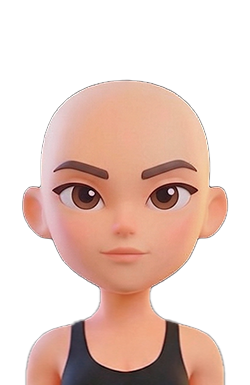
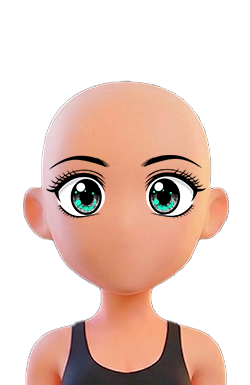
ajustes

diff --git a/assets/Components/AvatarPreview/AvatarPreview.js b/assets/Components/AvatarPreview/AvatarPreview.js
@@ -12,14 +12,15 @@ class AvatarPreview extends HTMLElement {
         this.imgBase = null;
         this.imgCabelo = null;
         this.imgOlhos = null; 
+        this.imgBoca = null; // Adicionado: Referência para a camada de boca
     }
 
     static get observedAttributes() {
-        return ['genero', 'cabelo', 'olhos']; 
+        return ['genero', 'cabelo', 'olhos', 'boca']; // Adicionado: 'boca'
     }
 
     attributeChangedCallback(name, oldValue, newValue) {
-        if (!this.imgBase || !this.imgCabelo || !this.imgOlhos) return;
+        if (!this.imgBase || !this.imgCabelo || !this.imgOlhos || !this.imgBoca) return;
         
         if (name === 'genero') {
             this.atualizarGenero(newValue);
@@ -27,6 +28,8 @@ class AvatarPreview extends HTMLElement {
             this.atualizarCabelo(newValue);
         } else if (name === 'olhos') {
             this.atualizarOlhos(newValue); 
+        } else if (name === 'boca') {
+            this.atualizarBoca(newValue); // Adicionado: Chamada para atualizar boca
         }
     }
 
@@ -41,7 +44,7 @@ class AvatarPreview extends HTMLElement {
             <link rel="stylesheet" href="${CSS_URL}">
             <div class="avatar-container">
                 <img class="base" alt="Corpo Base">
-                <img class="layer olhos" alt="Olhos"> 
+                <img class="layer boca" alt="Boca"> <img class="layer olhos" alt="Olhos"> 
                 <img class="layer cabelo" alt="Cabelo">
             </div>
         `;
@@ -49,6 +52,7 @@ class AvatarPreview extends HTMLElement {
         this.imgBase = this.shadowRoot.querySelector('.base');
         this.imgCabelo = this.shadowRoot.querySelector('.cabelo');
         this.imgOlhos = this.shadowRoot.querySelector('.olhos'); 
+        this.imgBoca = this.shadowRoot.querySelector('.boca'); // Cache da nova camada
 
         this.atualizarGenero(this.getAttribute('genero') || 'masculino');
         
@@ -57,6 +61,9 @@ class AvatarPreview extends HTMLElement {
 
         const olhosIniciais = this.getAttribute('olhos'); 
         if (olhosIniciais) this.atualizarOlhos(olhosIniciais);
+
+        const bocaInicial = this.getAttribute('boca'); 
+        if (bocaInicial) this.atualizarBoca(bocaInicial);
     }
 
     // --- MÉTODOS DE ATUALIZAÇÃO DO AVATAR ---
@@ -71,41 +78,40 @@ class AvatarPreview extends HTMLElement {
             this.imgBase.src = '../../Images/avatar-padrao.png';
             this.imgCabelo.classList.remove('visible');
             this.imgOlhos.classList.remove('visible');
+            this.imgBoca.classList.remove('visible');
         };
 
         this.imgCabelo.classList.remove('visible');
         this.imgOlhos.classList.remove('visible');
+        this.imgBoca.classList.remove('visible');
     }
 
     atualizarCabelo(cabeloId) {
-        if (!cabeloId) {
-            this.imgCabelo.classList.remove('visible');
-            return;
-        }
+        if (!cabeloId) { this.imgCabelo.classList.remove('visible'); return; }
         const genero = this.getAttribute('genero') || 'masculino';
         const pasta = genero === 'masculino' ? 'Masculino' : 'Feminino';
-        
         this.imgCabelo.classList.remove('visible');
         this.imgCabelo.onload = () => { this.imgCabelo.classList.add('visible'); };
         this.imgCabelo.src = `../../Images/Avatares/${pasta}/Cabelos/${cabeloId}.png`;
-        this.imgCabelo.onerror = () => { this.imgCabelo.src = ''; };
     }
 
     atualizarOlhos(olhosId) {
-        if (!olhosId) {
-            this.imgOlhos.classList.remove('visible');
-            return;
-        }
+        if (!olhosId) { this.imgOlhos.classList.remove('visible'); return; }
         const genero = this.getAttribute('genero') || 'masculino';
         const pasta = genero === 'masculino' ? 'Masculino' : 'Feminino';
-
         this.imgOlhos.classList.remove('visible');
         this.imgOlhos.onload = () => { this.imgOlhos.classList.add('visible'); };
-        
-        // Caminho baseado no seu print
         this.imgOlhos.src = `../../Images/Avatares/${pasta}/Olhos/${olhosId}.png`;
+    }
 
-        this.imgOlhos.onerror = () => { this.imgOlhos.src = ''; };
+    // Adicionado: Método para atualizar a boca
+    atualizarBoca(bocaId) {
+        if (!bocaId) { this.imgBoca.classList.remove('visible'); return; }
+        const genero = this.getAttribute('genero') || 'masculino';
+        const pasta = genero === 'masculino' ? 'Masculino' : 'Feminino';
+        this.imgBoca.classList.remove('visible');
+        this.imgBoca.onload = () => { this.imgBoca.classList.add('visible'); };
+        this.imgBoca.src = `../../Images/Avatares/${pasta}/Boca/${bocaId}.png`;
     }
 
     // --- LÓGICA DE INTERAÇÃO COM A UI ---
@@ -126,6 +132,9 @@ class AvatarPreview extends HTMLElement {
                     this.carregarMenuCabelo(this.getAttribute('genero') || 'masculino');
                 } else if (index === 1) {
                     this.carregarMenuOlhos(this.getAttribute('genero') || 'masculino');
+                } else if (index === 2) {
+                    // Adicionado: BOTÃO 3 para carregar Boca
+                    this.carregarMenuBoca(this.getAttribute('genero') || 'masculino');
                 } else {
                     if (gridOpcoes) gridOpcoes.innerHTML = '';
                 }
@@ -137,6 +146,7 @@ class AvatarPreview extends HTMLElement {
                 this.setAttribute('genero', genero);
                 this.setAttribute('cabelo', ''); 
                 this.setAttribute('olhos', ''); 
+                this.setAttribute('boca', ''); 
                 
                 if (genero === 'masculino') {
                     btnMasc.setAttribute('active', 'true');
@@ -148,11 +158,10 @@ class AvatarPreview extends HTMLElement {
                     if (textAvatar) textAvatar.style.color = '#E84D8A';
                 }
 
-                if (botoesMenuLateral[0] && botoesMenuLateral[0].classList.contains('active')) {
-                    this.carregarMenuCabelo(genero);
-                } else if (botoesMenuLateral[1] && botoesMenuLateral[1].classList.contains('active')) {
-                    this.carregarMenuOlhos(genero);
-                }
+                const ativo = Array.from(botoesMenuLateral).findIndex(b => b.classList.contains('active'));
+                if (ativo === 0) this.carregarMenuCabelo(genero);
+                else if (ativo === 1) this.carregarMenuOlhos(genero);
+                else if (ativo === 2) this.carregarMenuBoca(genero);
             };
 
             btnMasc.addEventListener('click', () => trocarGenero('masculino'));
@@ -168,85 +177,77 @@ class AvatarPreview extends HTMLElement {
     carregarMenuCabelo(genero) {
         const gridOpcoes = document.getElementById('opcoes-grid');
         if (!gridOpcoes) return;
-        
         gridOpcoes.innerHTML = ''; 
-        const quantidade = 10; 
-
-        for (let i = 1; i <= quantidade; i++) {
-            const numero = i.toString().padStart(2, '0');
-            const nomeMascara = `opcao_${numero}`;
+        for (let i = 1; i <= 10; i++) {
+            const num = i.toString().padStart(2, '0');
+            const nomeMascara = `opcao_${num}`;
             const sufixo = genero === 'masculino' ? 'Masc' : 'Fem';
-            const nomeArquivoReal = `Cabelo_${sufixo}_${numero}`;
-
-            const item = document.createElement('div');
-            item.style.width = 'calc(33.33% - 8px)'; 
-            item.style.display = 'contents'; 
-
-            item.innerHTML = `
-                <div class="item-opcao shadow-sm" data-item="${nomeArquivoReal}">
-                    <img src="../../Images/Avatares/${genero === 'masculino' ? 'Masculino' : 'Feminino'}/Cabelos/Mascaras/${nomeMascara}.png" 
-                        onerror="this.src='../../Images/placeholder.png';">
-                </div>
-            `;
-
-            item.querySelector('.item-opcao').addEventListener('click', (e) => {
-                this.setAttribute('cabelo', nomeArquivoReal);
-                document.querySelectorAll('.item-opcao').forEach(el => el.classList.remove('item-active'));
-                e.currentTarget.classList.add('item-active');
-            });
-
-            gridOpcoes.appendChild(item);
+            const nomeArq = `Cabelo_${sufixo}_${num}`;
+            this.criarItemGrid(gridOpcoes, nomeArq, `Cabelos/Mascaras/${nomeMascara}`, 'cabelo');
         }
     }
 
     carregarMenuOlhos(genero) {
         const gridOpcoes = document.getElementById('opcoes-grid');
         if (!gridOpcoes) return;
-        
         gridOpcoes.innerHTML = ''; 
-        const quantidade = 3; 
-
-        for (let i = 1; i <= quantidade; i++) {
-            const numero = i.toString().padStart(2, '0');
-            // Ajustado conforme o print: perfilopcao_01
-            const nomeMascara = `perfilopcao_${numero}`;
+        for (let i = 1; i <= 3; i++) {
+            const num = i.toString().padStart(2, '0');
+            const nomeMascara = `perfilopcao_${num}`;
             const sufixo = genero === 'masculino' ? 'Masc' : 'Fem';
-            // Ajustado conforme o print: Olhos_Fem_01
-            const nomeArquivoReal = `Olhos_${sufixo}_${numero}`;
-
-            const item = document.createElement('div');
-            item.style.width = 'calc(33.33% - 8px)'; 
-            item.style.display = 'contents'; 
-
-            item.innerHTML = `
-                <div class="item-opcao shadow-sm" data-item="${nomeArquivoReal}">
-                    <img src="../../Images/Avatares/${genero === 'masculino' ? 'Masculino' : 'Feminino'}/Olhos/Mascaras/${nomeMascara}.png" 
-                        onerror="this.src='../../Images/placeholder.png';">
-                </div>
-            `;
-
-            item.querySelector('.item-opcao').addEventListener('click', (e) => {
-                this.setAttribute('olhos', nomeArquivoReal);
-                document.querySelectorAll('.item-opcao').forEach(el => el.classList.remove('item-active'));
-                e.currentTarget.classList.add('item-active');
-            });
-
-            gridOpcoes.appendChild(item);
+            const nomeArq = `Olhos_${sufixo}_${num}`;
+            this.criarItemGrid(gridOpcoes, nomeArq, `Olhos/Mascaras/${nomeMascara}`, 'olhos');
         }
+    }
+
+    // Adicionado: Método para carregar as opções de Boca
+    carregarMenuBoca(genero) {
+        const gridOpcoes = document.getElementById('opcoes-grid');
+        if (!gridOpcoes) return;
+        gridOpcoes.innerHTML = ''; 
+        
+        // Você mencionou que tem a opcao_01 e 02
+        for (let i = 1; i <= 2; i++) {
+            const num = i.toString().padStart(2, '0');
+            const nomeMascara = `opcao_${num}`;
+            const sufixo = genero === 'masculino' ? 'Masc' : 'Fem';
+            // Seguindo o padrão: Boca_Fem_01
+            const nomeArq = `Boca_${sufixo}_${num}`;
+            this.criarItemGrid(gridOpcoes, nomeArq, `Boca/Mascaras/${nomeMascara}`, 'boca');
+        }
+    }
+
+    // Função auxiliar para evitar repetição de código no grid
+    criarItemGrid(container, nomeArquivo, pathMascara, atributo) {
+        const genero = this.getAttribute('genero') || 'masculino';
+        const pasta = genero === 'masculino' ? 'Masculino' : 'Feminino';
+        
+        const item = document.createElement('div');
+        item.style.width = 'calc(33.33% - 8px)'; 
+        item.style.display = 'contents'; 
+        item.innerHTML = `
+            <div class="item-opcao shadow-sm" data-item="${nomeArquivo}">
+                <img src="../../Images/Avatares/${pasta}/${pathMascara}.png" onerror="this.src='../../Images/placeholder.png';">
+            </div>
+        `;
+        item.querySelector('.item-opcao').addEventListener('click', (e) => {
+            this.setAttribute(atributo, nomeArquivo);
+            document.querySelectorAll('.item-opcao').forEach(el => el.classList.remove('item-active'));
+            e.currentTarget.classList.add('item-active');
+        });
+        container.appendChild(item);
     }
 
     async injetarStyleGlobal() {
         try {
             if (document.getElementById('avatar-preview-global-style')) return;
-            const resposta = await fetch(CSS_URL);
-            const cssString = await resposta.text();
-            const styleElement = document.createElement('style');
-            styleElement.id = 'avatar-preview-global-style'; 
-            styleElement.textContent = cssString;
-            document.head.appendChild(styleElement);
-        } catch (error) {
-            console.error("⚠ Falha ao injetar CSS:", error);
-        }
+            const res = await fetch(CSS_URL);
+            const css = await res.text();
+            const style = document.createElement('style');
+            style.id = 'avatar-preview-global-style'; 
+            style.textContent = css;
+            document.head.appendChild(style);
+        } catch (e) { console.error(e); }
     }
 }
 

diff --git a/assets/Pages/Avatar/Avatar.html b/assets/Pages/Avatar/Avatar.html
@@ -30,8 +30,12 @@
         <div class="customizador-body shadow-sm">
             <div class="sidebar-icones"> 
                 <button class="btn-icone-lateral menu-item-lateral"><i class="bi bi-scissors fs-2"></i></button>
-                <button class="btn-icone-lateral menu-item-lateral"><i class="bi bi-person-badge fs-2"></i></button>
-                <button class="btn-icone-lateral menu-item-lateral"><i class="bi bi-universal-access fs-2"></i></button>
+                
+                <button class="btn-icone-lateral menu-item-lateral"><i class="bi bi-eye-fill fs-2"></i></button>
+                
+                <button class="btn-icone-lateral menu-item-lateral"><i class="bi bi-emoji-smile-fill fs-2"></i></button>
+
+                <button class="btn-icone-lateral menu-item-lateral"><i class="bi bi-person-vcard fs-2"></i></button>
             </div>
             
             <div class="area-preview">
